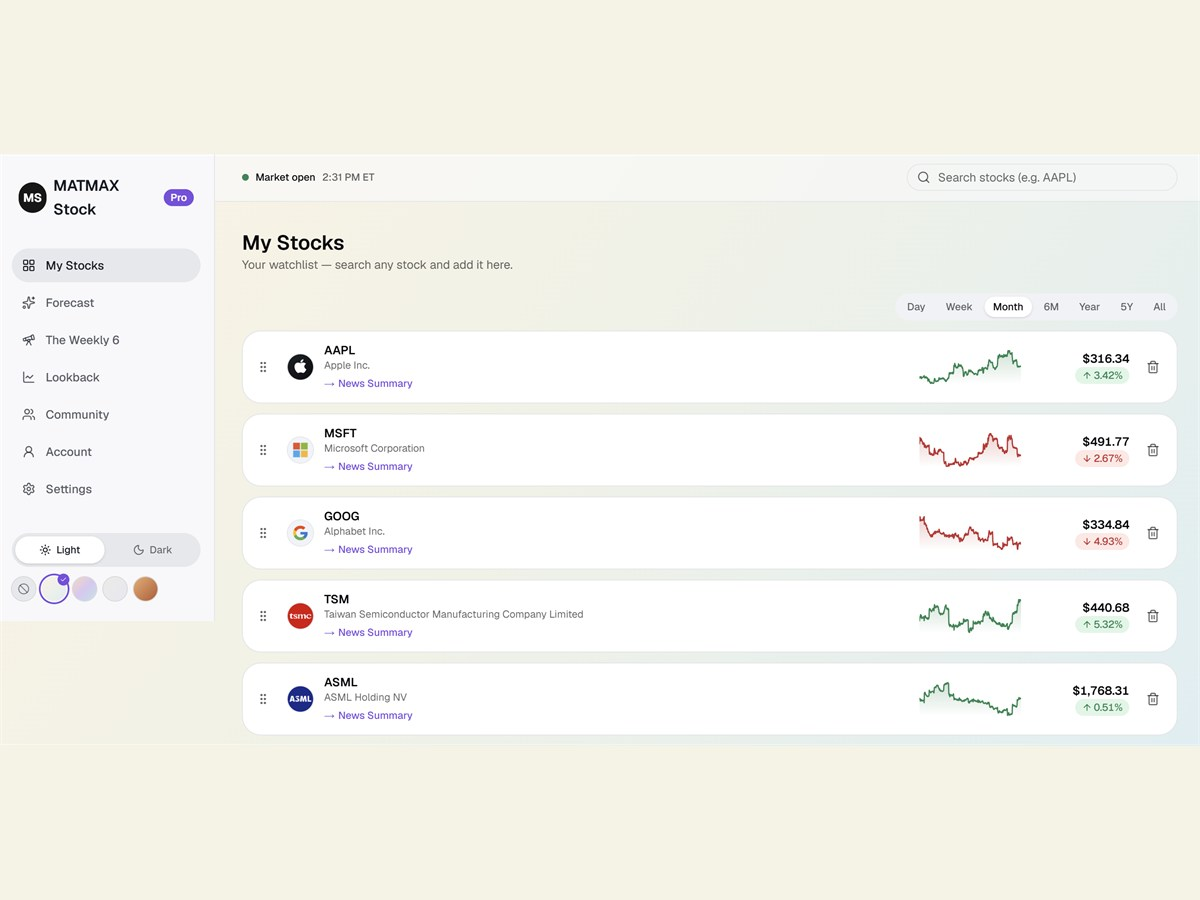
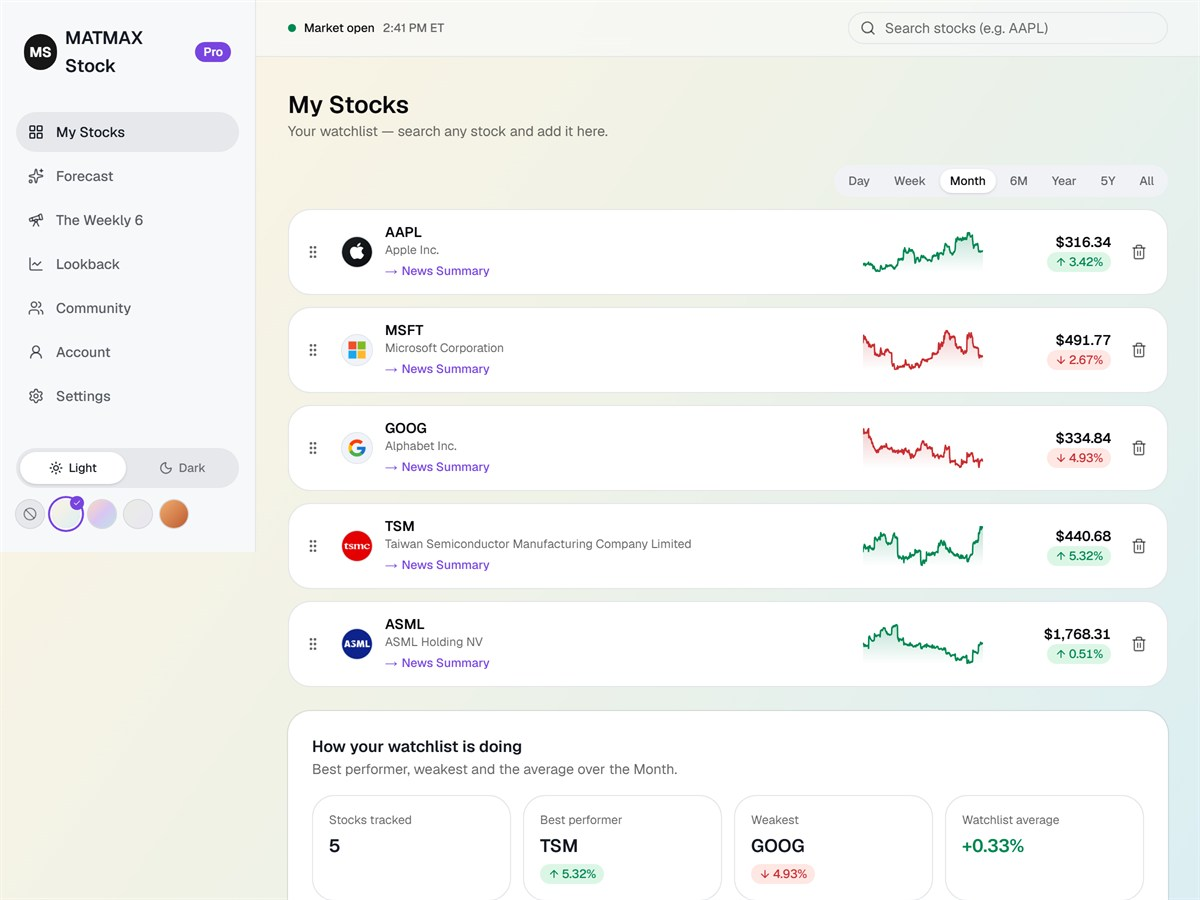
Reshoot the MATMAX tile at a native 4:3 viewport
Captured the signed-in Pro watchlist at 1200x900 with a 2x device pixel
ratio, so the tile needs no letterboxing and stays sharp: sidebar,
sparklines, prices and the watchlist summary all fit the 4:3 frame.

Claude-Session: https://claude.ai/code/session_01LAdzVJS6vCrDdx5G8awKFL

diff --git a/index.html b/index.html
@@ -386,7 +386,7 @@
 
         <article class="card">
           <div class="card-media">
-            <img src="assets/img/thumb-matmax.jpg?v=2" alt="matmaxapp.com website" />
+            <img src="assets/img/thumb-matmax.jpg?v=3" alt="matmaxapp.com website" />
           </div>
           <div class="card-body">
             <h3>matmaxapp.com</h3>
